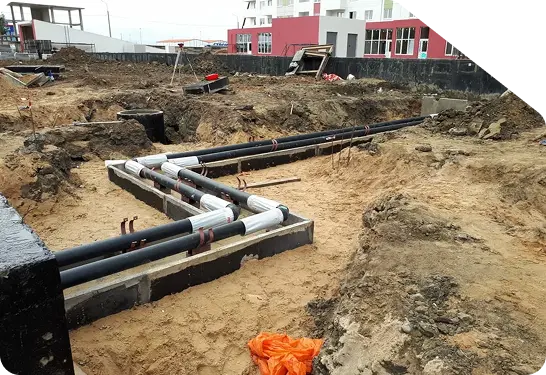
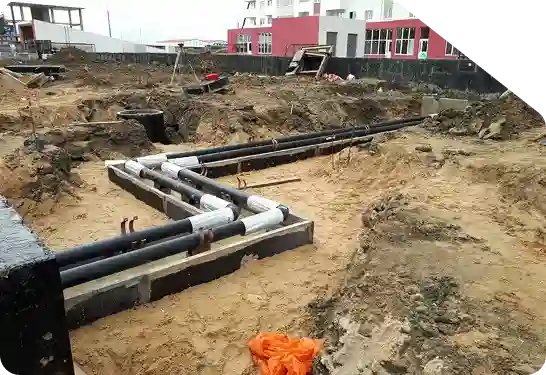
fix(perf): оптимизирована доставка изображений для ускорения загрузки

diff --git a/layouts/_partials/header.html b/layouts/_partials/header.html
@@ -2,7 +2,7 @@
 	<div class="container lg">
 		<div class="d-flex flex-wrap align-items-center justify-content-center justify-content-md-between py-4">
 			<a href="{{ `` | absURL }}" class="d-flex align-items-center col-md-2 mb-2 mb-md-0 text-dark text-decoration-none">
-				<img src="{{ `images/logoheader.png` | absURL }}" alt="{{ .Title }}" />
+				<img src="{{ `images/logoheader.webp` | absURL }}" alt="{{ .Title }}" />
 			</a>
 
 			<ul class="nav col-md-7 mb-2 justify-content-center mb-md-0">
@@ -25,7 +25,7 @@
 	<div class="container xs">
 		<div class="d-flex flex-wrap align-items-center justify-content-between py-4">
 			<a href="{{ `` | absURL }}" class="d-flex align-items-center col-md-2 mb-2 mb-md-0 text-dark text-decoration-none">
-				<img src="{{ `images/logoheader.png` | absURL }}" alt="{{ .Title }}" />
+				<img src="{{ `images/logoheader.webp` | absURL }}" alt="{{ .Title }}" />
 			</a>
 			<nav>
 				<button class="bord-none" data-bs-toggle="collapse" data-bs-target="#MobMenuHeader" aria-controls="MobMenuHeader" aria-expanded="false" aria-label="Toggle navigation">
